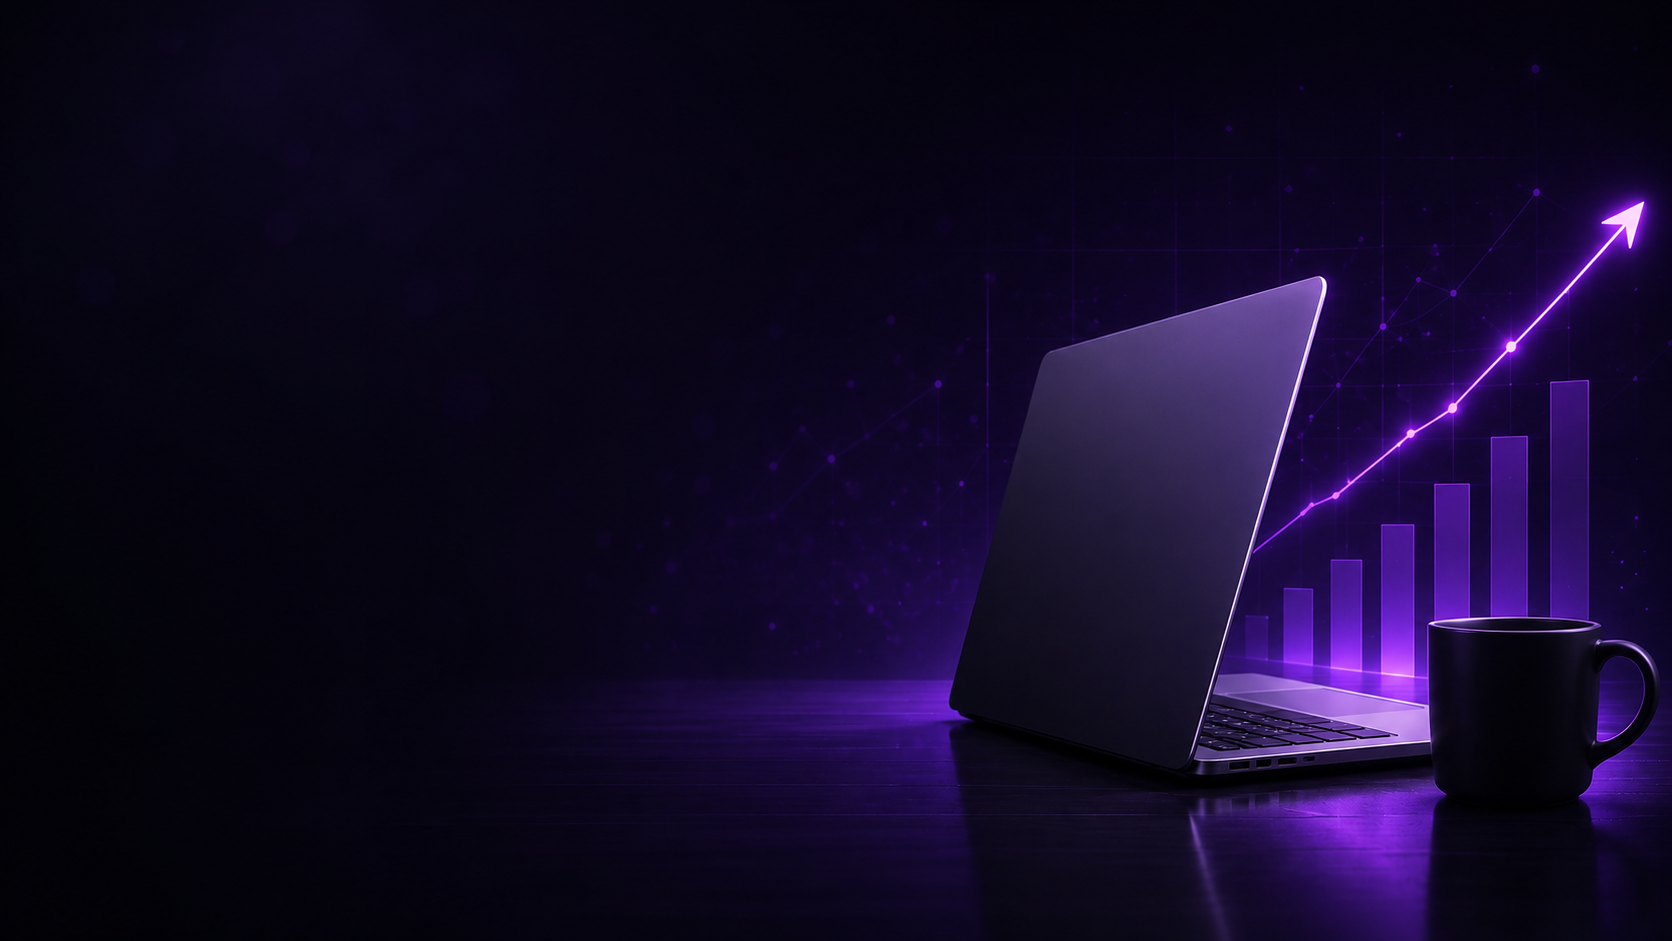
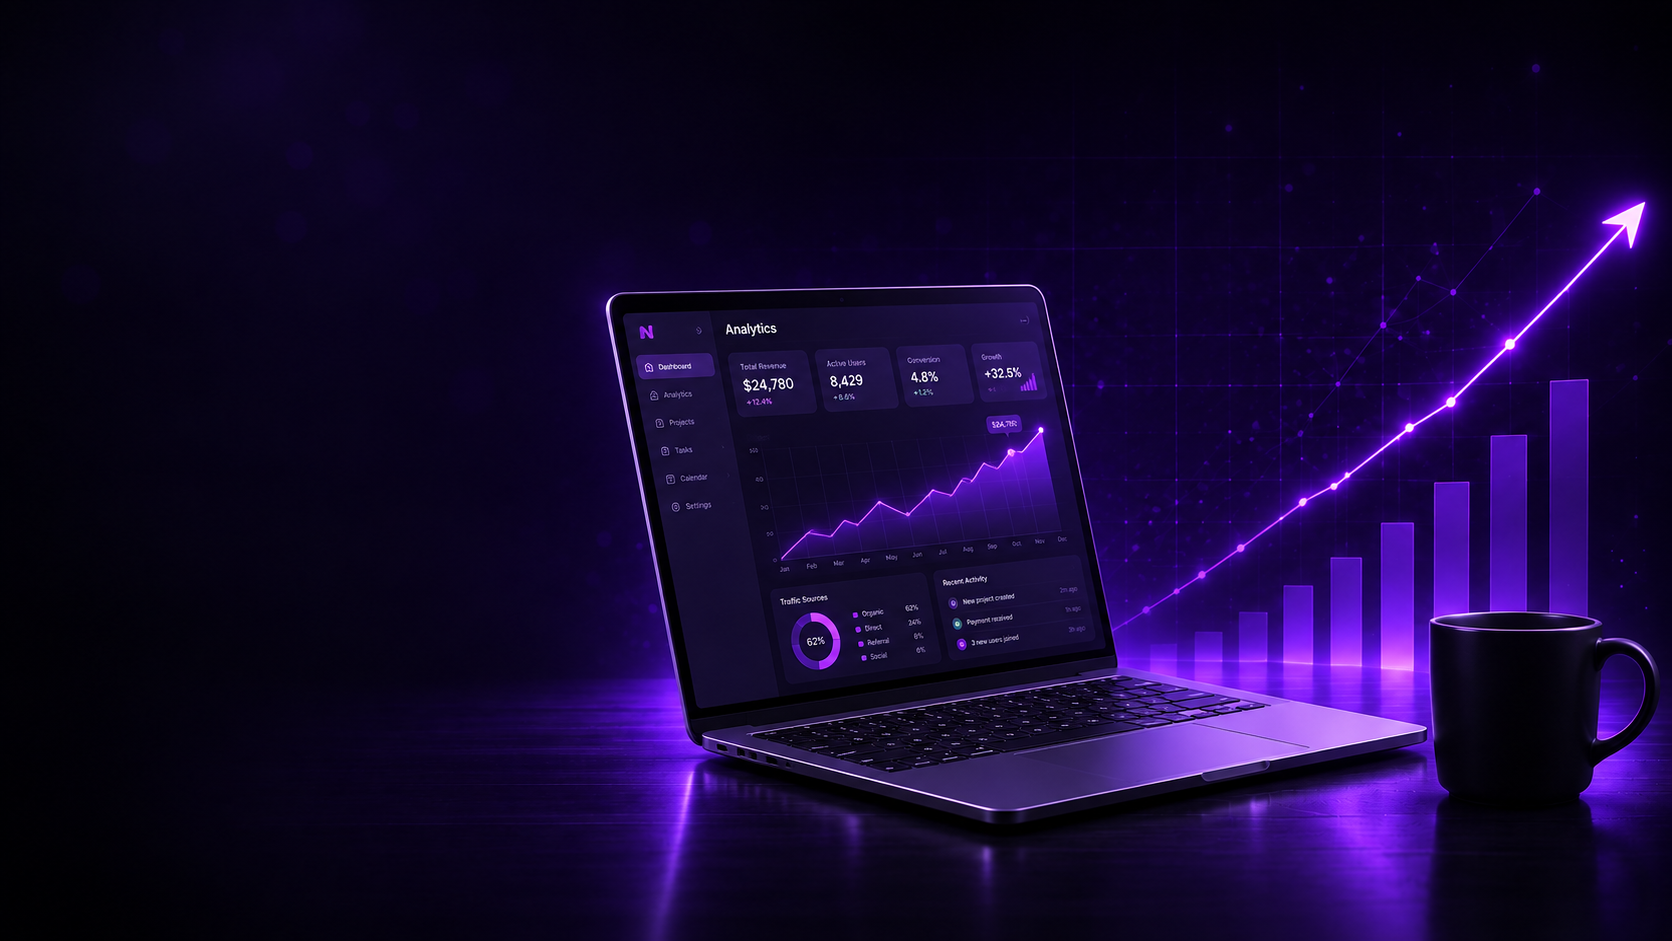
apdate file home work ui/ua

diff --git a/css/index.css b/css/index.css
@@ -102,8 +102,15 @@ input, select {
 }
 
 body {
+  position: relative;
   font-size: 18px;
   background-color: rgb(248, 246, 243);
+}
+body::before {
+  content: "";
+  position: absolute;
+  inset: 0;
+  background-color: rgba(0, 0, 0, 0.5);
 }
 
 .container {
@@ -325,260 +332,4 @@ header {
   color: #0d0d14;
 }
 
-
-
-@media (max-width: 1024px) {
-
-  .container {
-    padding: 0 30px;
-  }
-
-  .header {
-    justify-content: space-between;
-  }
-
-  .header__menu-link {
-    width: 150px;
-  }
-
-  .header__menu-list {
-    font-size: 18px;
-  }
-
-  .header__menu-svg {
-    width: 24px;
-    height: 24px;
-  }
-
-  .header-services {
-    bottom: -60px;
-  }
-
-  .header-promotion {
-    right: -212.13px;
-    width: 212.13px;
-  }
-
-  .hero {
-    min-height: calc(100dvh - 50px);
-  }
-
-  .hero__inner {
-    max-width: 700px;
-    gap: 40px;
-  }
-
-  .hero__title {
-    font-size: 48px;
-  }
-
-  .hero p.hero__subtitle {
-    font-size: 18px;
-  }
-
-  .hero__btn {
-    max-width: 280px;
-    font-size: 18px;
-  }
-}
-
-
-@media (max-width: 768px) {
-
-  .container {
-    padding: 0 20px;
-  }
-
-  .header {
-    min-height: 60px;
-    justify-content: center;
-  }
-
-  .header__logo {
-    display: none;
-  }
-
-  .header__menu {
-    width: 100%;
-    justify-content: center;
-  }
-
-  .header__menu-list {
-    font-size: 16px;
-  }
-
-  .header__menu-link {
-    width: auto;
-    min-width: 120px;
-    height: 60px;
-    padding: 0 15px;
-  }
-
-  .header__menu-svg {
-    width: 20px;
-    height: 20px;
-    right: 5px;
-  }
-
-  .header-services {
-    bottom: -60px;
-  }
-
-  .header-services__list {
-    min-height: 55px;
-  }
-
-  .header-promotion {
-    right: -180px;
-    width: 180px;
-  }
-
-  .header-promotion__list {
-    min-height: 55px;
-  }
-
-  .hero {
-    min-height: calc(100dvh - 60px);
-  }
-
-  .hero__inner {
-    max-width: 100%;
-    gap: 35px;
-  }
-
-  .hero__title {
-    font-size: 40px;
-    line-height: 1.1;
-  }
-
-  .hero p.hero__subtitle {
-    font-size: 17px;
-    line-height: 1.4;
-  }
-
-  .hero__btn {
-    max-width: 260px;
-    font-size: 17px;
-  }
-
-  .hero__btn svg {
-    width: 45px;
-    height: 45px;
-  }
-}
-
-
-@media (max-width: 480px) {
-
-  .container {
-    padding: 0 15px;
-  }
-
-  .header {
-    min-height: 55px;
-  }
-
-  .header__menu {
-    justify-content: space-between;
-  }
-
-  .header__menu-list {
-    font-size: 14px;
-  }
-
-  .header__menu-link {
-    min-width: auto;
-    height: 55px;
-    padding: 0 8px;
-  }
-
-  .header__menu-svg {
-    width: 18px;
-    height: 18px;
-    right: -2px;
-  }
-
-  .header-services {
-    bottom: -55px;
-  }
-
-  .header-services__list {
-    min-height: 50px;
-  }
-
-  .header-promotion {
-    right: -150px;
-    width: 150px;
-  }
-
-  .header-promotion__list {
-    min-height: 50px;
-  }
-
-  .hero {
-    min-height: calc(100dvh - 55px);
-  }
-
-  .hero__inner {
-    gap: 25px;
-  }
-
-  .hero span.hero__subtitle {
-    font-size: 14px;
-  }
-
-  .hero__title {
-    font-size: 32px;
-    line-height: 1.15;
-  }
-
-  .hero p.hero__subtitle {
-    font-size: 15px;
-    line-height: 1.4;
-  }
-
-  .hero__btn {
-    width: 100%;
-    max-width: 240px;
-    font-size: 15px;
-  }
-
-  .hero__btn svg {
-    width: 40px;
-    height: 40px;
-  }
-}
-
-@media (max-width: 360px) {
-
-  .header__menu-list {
-    font-size: 12px;
-  }
-
-  .header__menu-link {
-    padding: 0 5px;
-  }
-
-  .header__menu-svg {
-    width: 16px;
-    height: 16px;
-  }
-
-  .hero__title {
-    font-size: 28px;
-  }
-
-  .hero span.hero__subtitle {
-    font-size: 12px;
-  }
-
-  .hero p.hero__subtitle {
-    font-size: 14px;
-  }
-
-  .hero__btn {
-    max-width: 220px;
-    font-size: 14px;
-  }
-}
 /*# sourceMappingURL=index.css.map */
